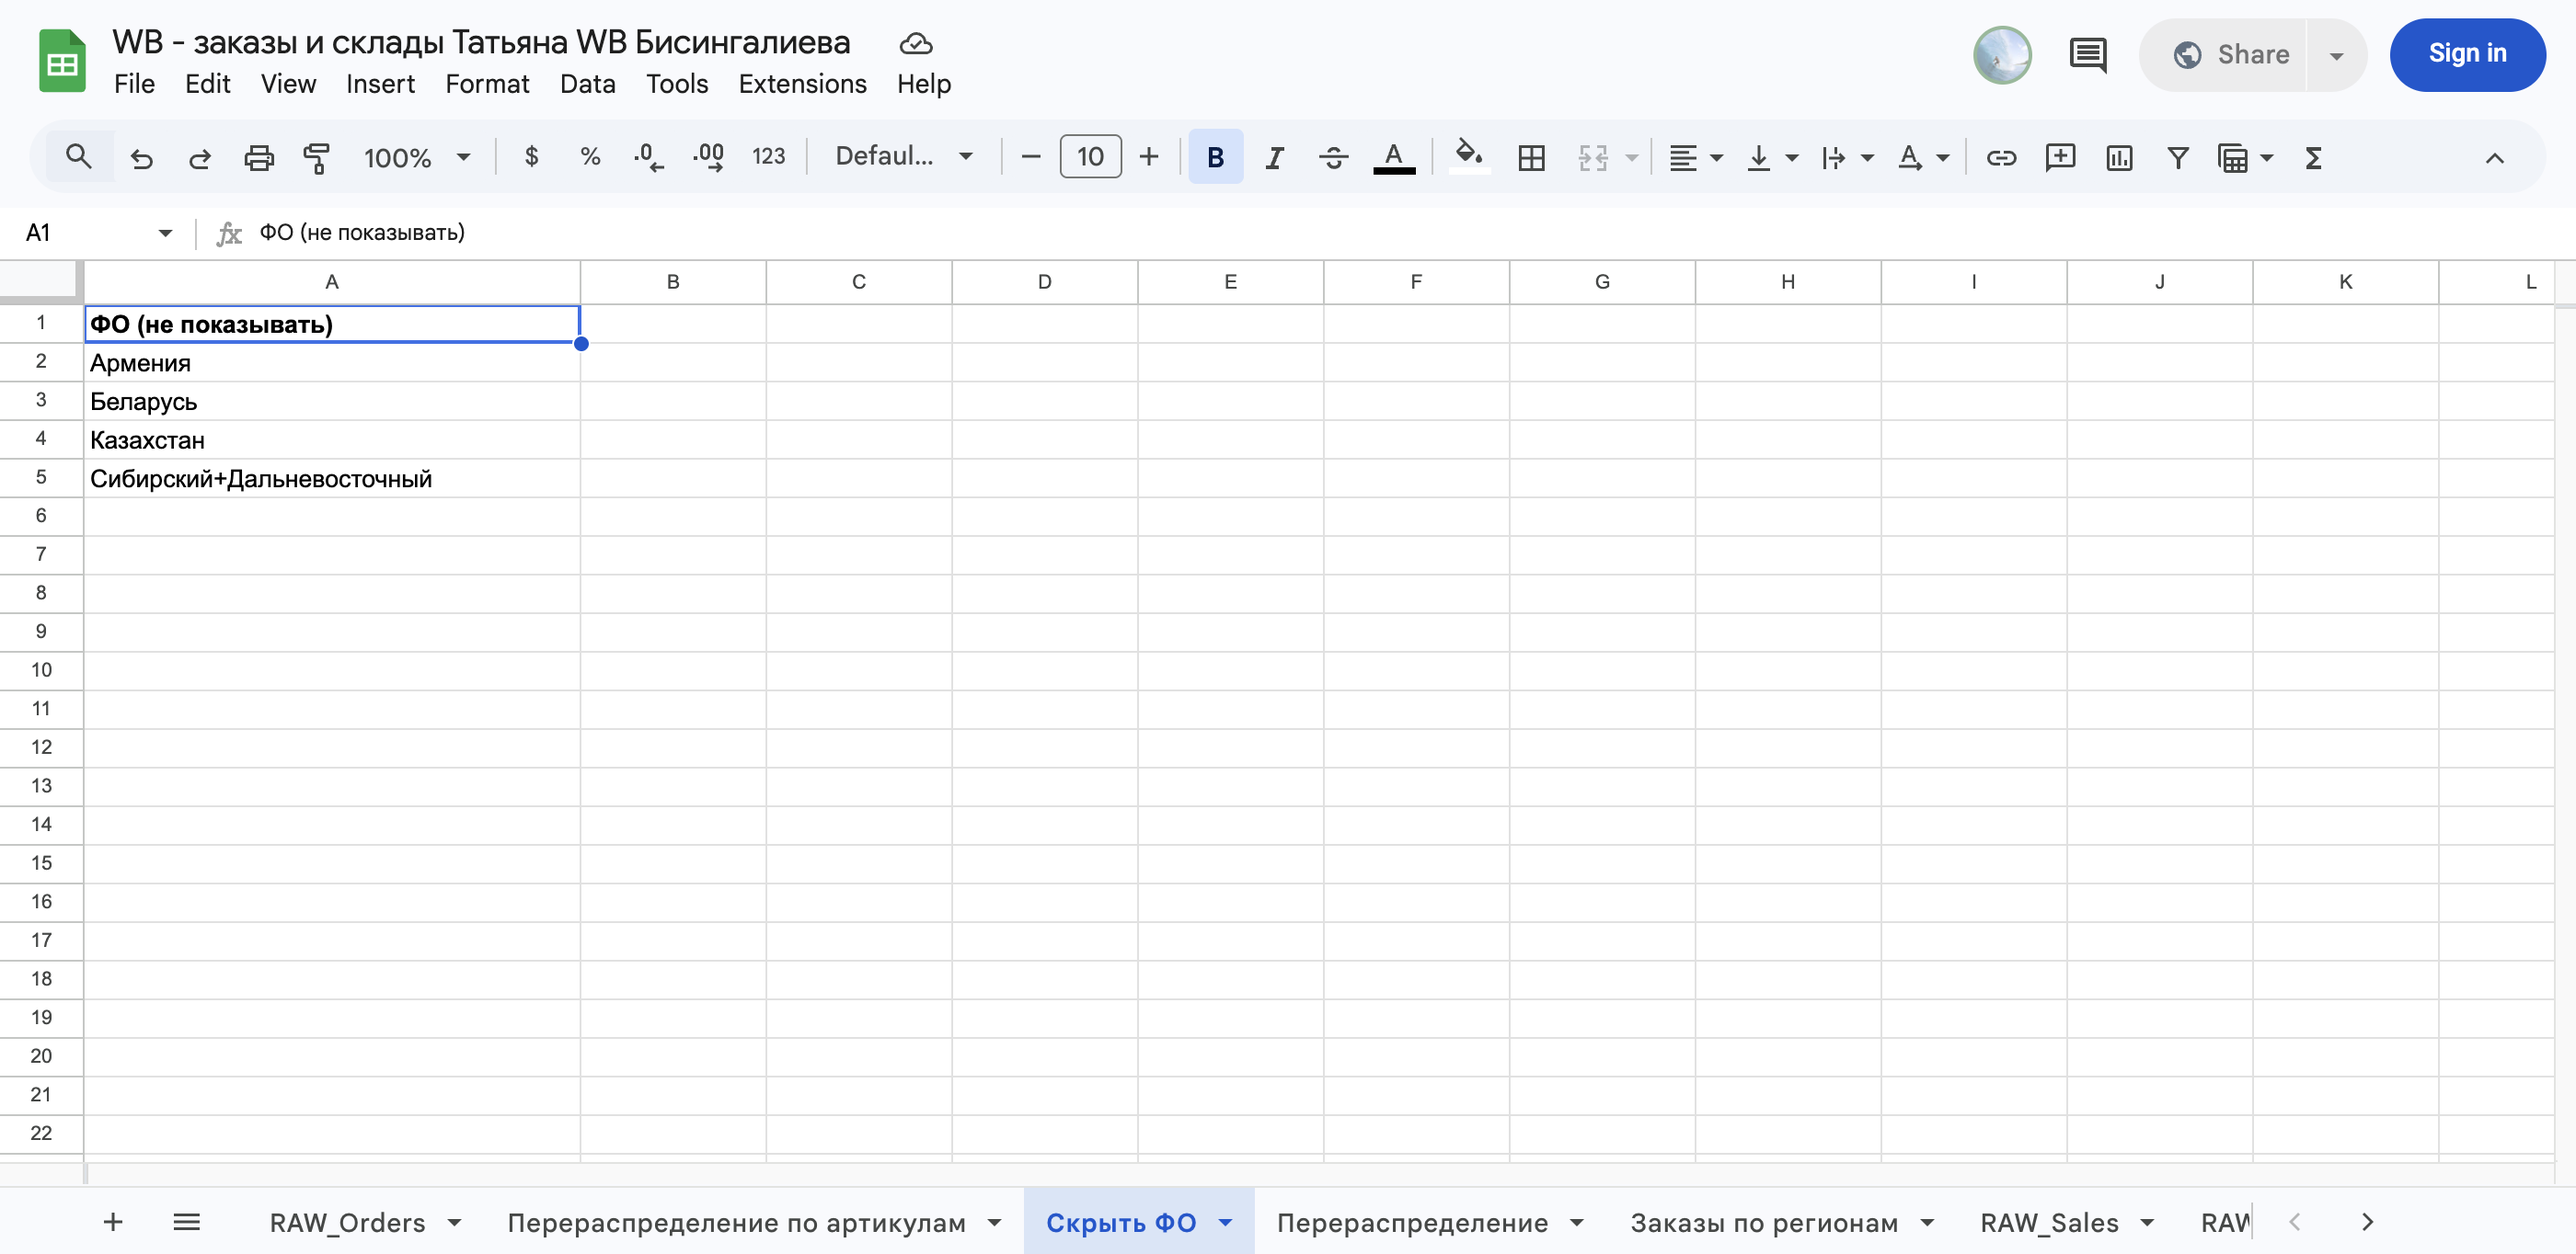
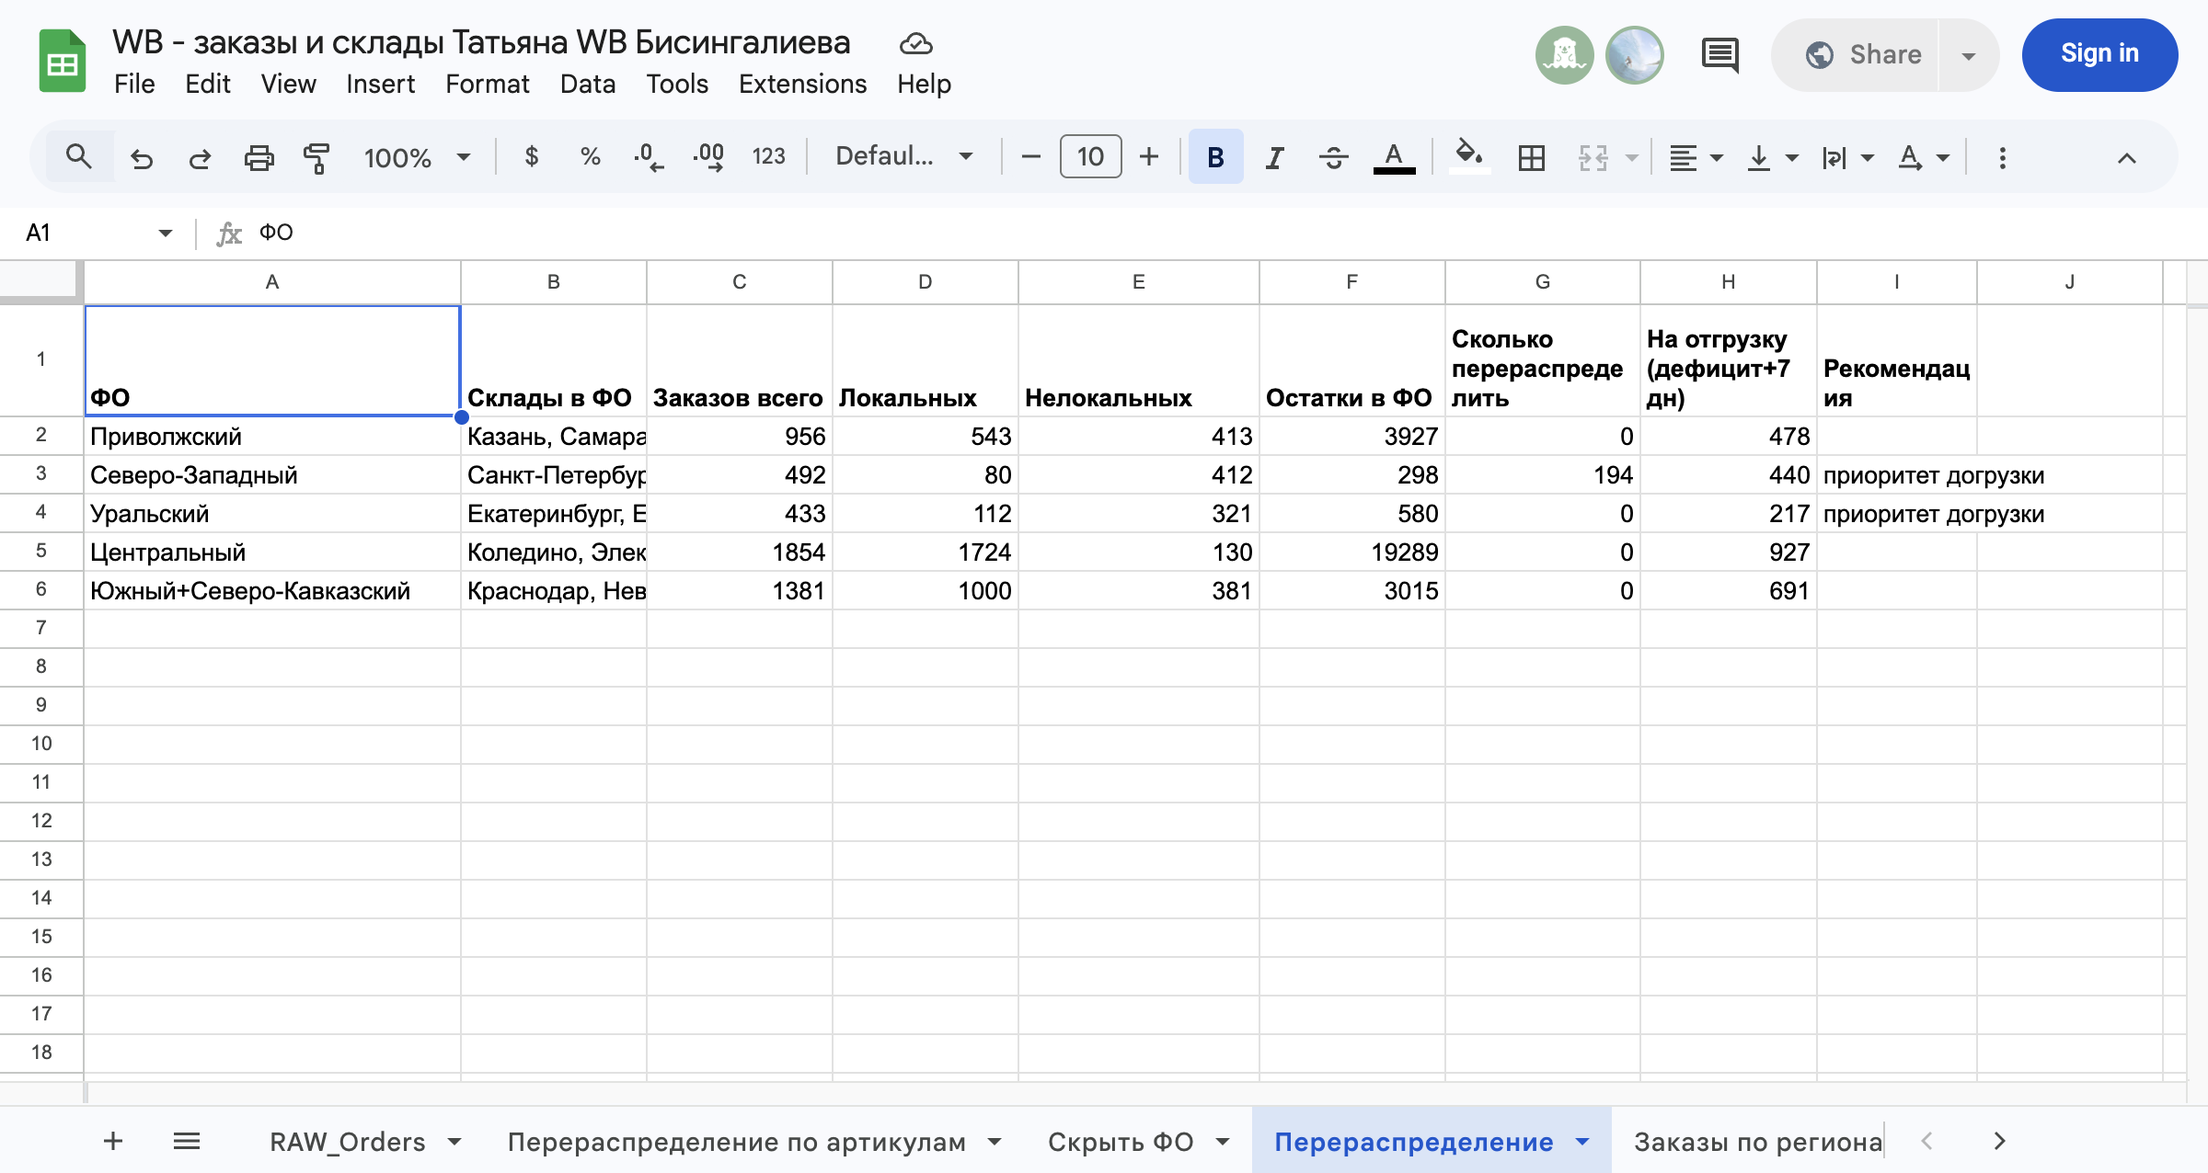
pereraspredelenie.png: скрин листа Перераспределение (свод по ФО и складам), не Скрыть ФО
Made-with: Cursor

diff --git a/case-wb-sheets.html b/case-wb-sheets.html
@@ -155,8 +155,8 @@
         <figcaption>Пример таблицы (WB): лист «Перераспределение» — колонка ФО, данные по складам и рекомендации по догрузке.</figcaption>
       </figure>
       <figure class="screenshot">
-        <img src="img/pereraspredelenie.png" alt="Таблица WB Wildberries: лист Скрыть ФО — свод по ФО и складам">
-        <figcaption>Лист «Скрыть ФО» — сводный вид по ФО и складам (та же таблица перераспределения).</figcaption>
+        <img src="img/pereraspredelenie.png" alt="Таблица WB Wildberries: лист Перераспределение — свод по ФО и складам">
+        <figcaption>Лист «Перераспределение» — свод по ФО и складам, заказы, остатки, рекомендации по догрузке.</figcaption>
       </figure>
     </section>
 
